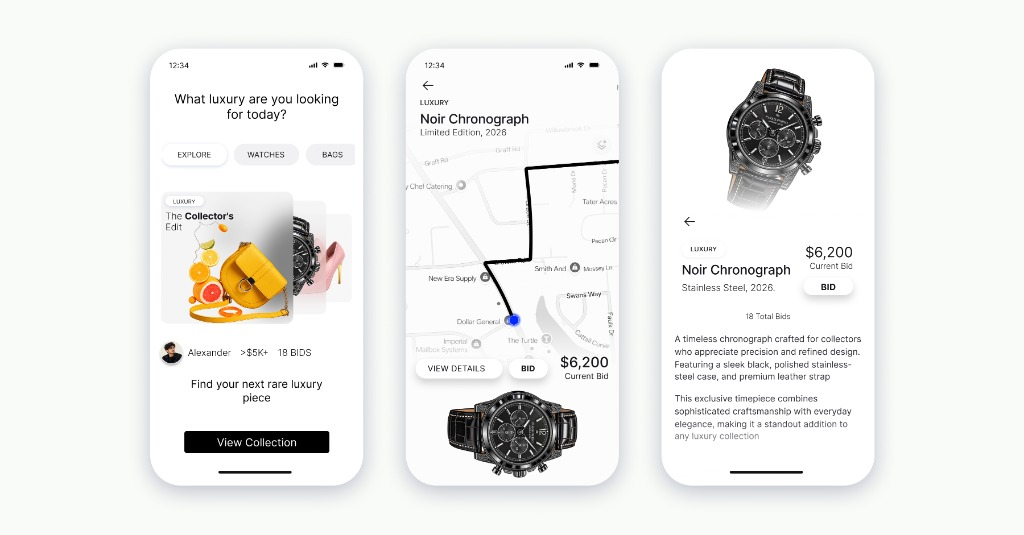
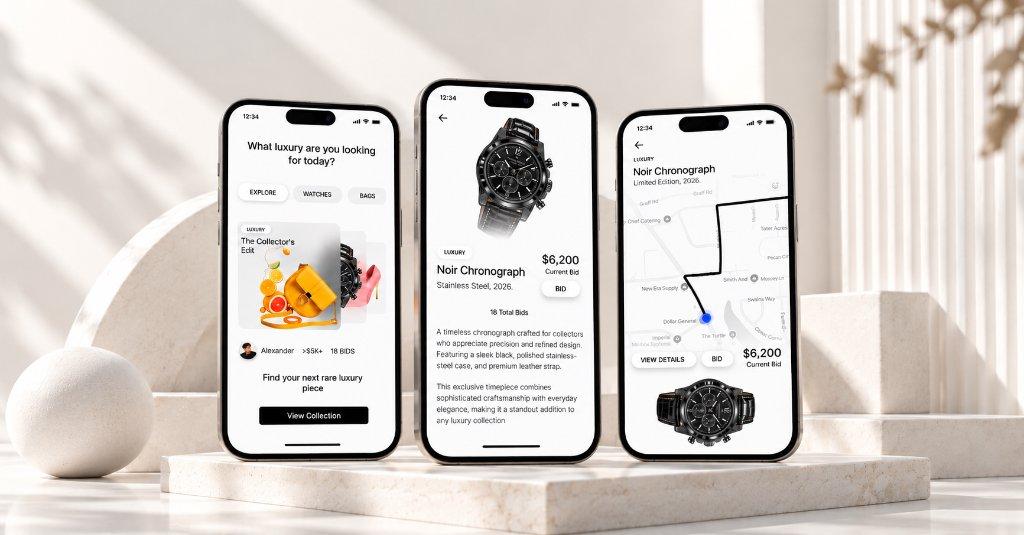
Update Noir Chronograph case study cover to 3D pedestal architectural mockup

diff --git a/src/routes/index.tsx b/src/routes/index.tsx
@@ -190,7 +190,7 @@ const caseStudies = [
     href: "https://www.behance.net/salinasiddiqui",
     image: caseNoirChronograph,
     tone: "bg-ink text-paper",
-    imageBg: "bg-[#F7F8FA]",
+    imageBg: "bg-[#ECE8E1]",
     imageFit: "contain",
   },
   {
@@ -416,7 +416,7 @@ function Portfolio() {
                     width={1400}
                     height={900}
                     loading="lazy"
-                    className={`h-full w-full ${"imageFit" in study && study.imageFit === "contain" ? "object-contain p-3 sm:p-6" : "object-cover"} object-center transition-transform duration-700 group-hover:scale-[1.02]`}
+                    className={`h-full w-full ${"imageFit" in study && study.imageFit === "contain" ? "object-contain" : "object-cover"} object-center transition-transform duration-700 group-hover:scale-[1.02]`}
                   />
                 </a>
               </div>
